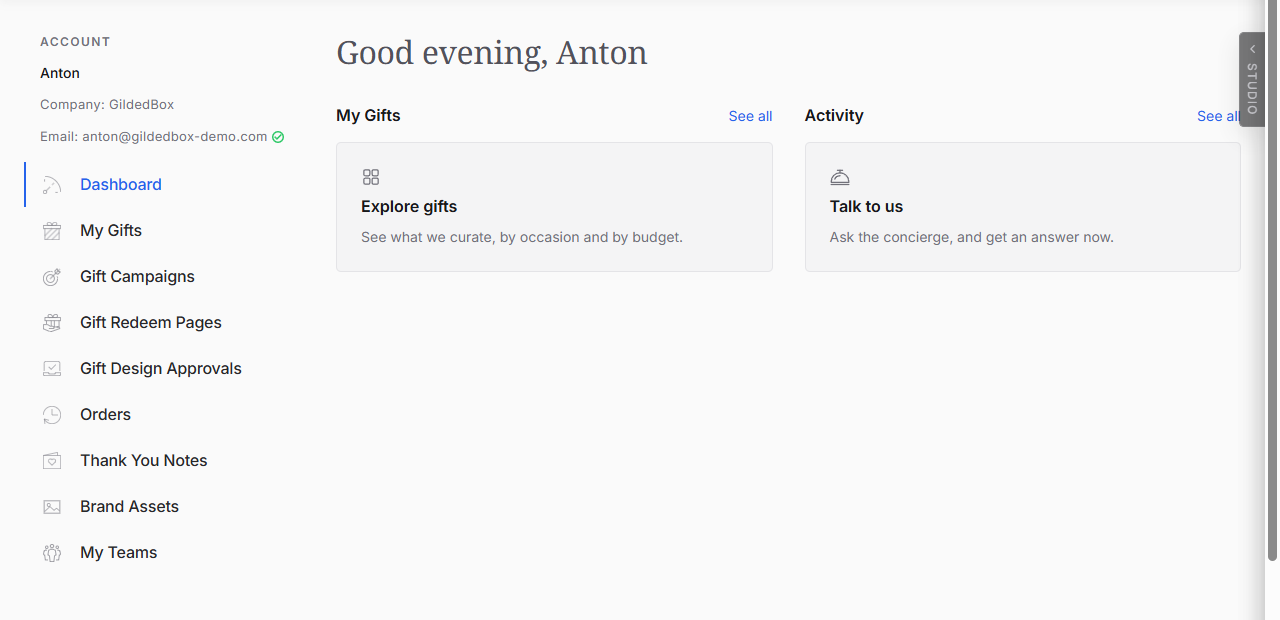
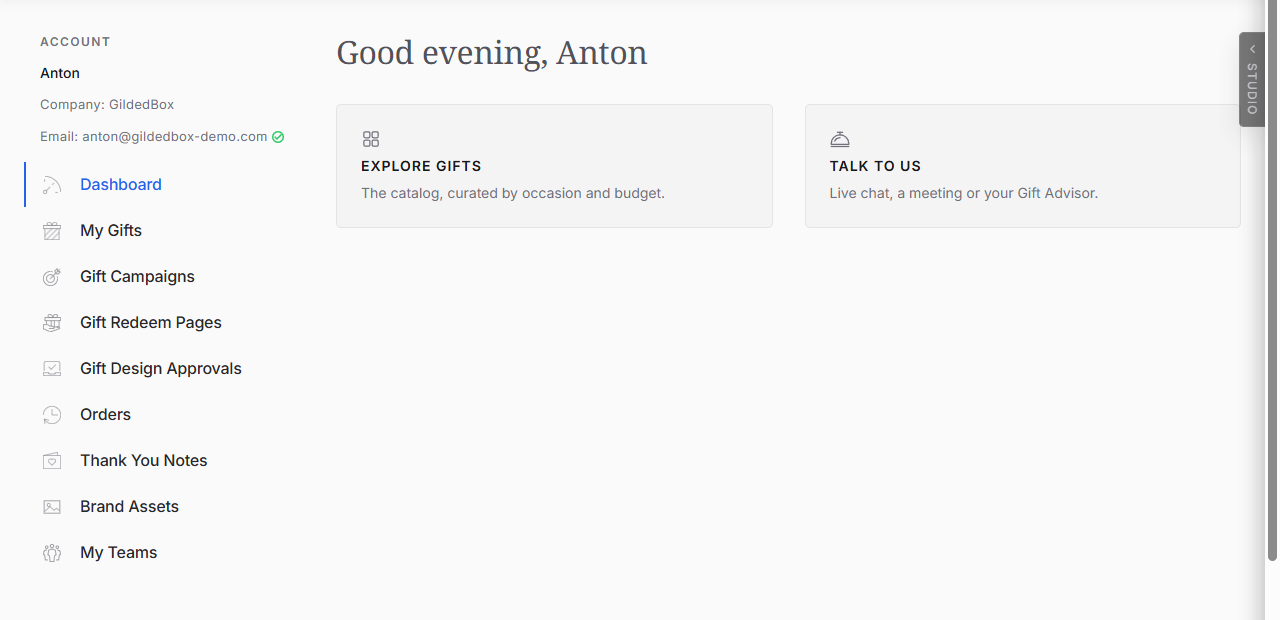
fix(portal): the doors speak in the button's caps, and an empty block is just its door
THE LABEL OF A DOOR IS A BUTTON'S LABEL. Ton's argument settles it:
everything interactive in this house already speaks in caps, menus,
tabs and buttons alike, so the doors join that family. The values
are taken by name off the ladder rather than redrawn: the medium
rung on the working board (11 / 600 / 1px, 12 at 2000) and the large
rung in an empty block, where the door IS the block.

Measured, because the two used to be the same object: the block
heading is 16/600 sentence case and the door label is 11/600
uppercase with 1px of tracking. Three signs apart, not one.

THE EMPTY BLOCK LOST ITS HEADING. Over a grown door the name of an
empty entity says the same thing twice; the greeting is the page's
only heading there now, and the board stands one section under it
(32, measured). On the filled board the headings stay, because there
they name something with states and content beneath them.

THE SUBS SAY WHAT THE THING IS: the catalog curated by occasion and
budget, one gift delivered to a whole list, live chat or a meeting
or your Gift Advisor. The middle one is the definition of a campaign
and it belongs on that door.

AND THE WORKING BOARD KEEPS ITS DOORS ONE LINE HIGH, which was mine
to judge: a caps label already reads as an action, the sense line
under it would make every compact door two storeys and put a second
grey paragraph directly above the tabs. 54px tall against the empty
block's 124, and the errand stays an errand.

diff --git a/live/portal-dashboard.html b/live/portal-dashboard.html
@@ -404,14 +404,32 @@ a.gbppd-more:hover, body.gb-demo a.gbppd-more:hover { color: var(--blue-700); te
 a.gbppd-act, body.gb-demo a.gbppd-act { color: var(--zinc-900); }
 .gbppd-act:hover { background: var(--zinc-200); border-color: var(--zinc-300); }
 .gbppd-act .gb-icon { color: var(--zinc-500); flex: 0 0 auto; }
-.gbppd-act__name { font-size: 15px; font-weight: 500; line-height: 1.4; }
+/* THE LABEL OF A DOOR IS A BUTTON'S LABEL (10.09). A door is an
+   action, and actions in this house speak in caps off the button
+   ladder: the medium rung's own label triple, taken by name rather
+   than redrawn (11 / 600 / 1px, stepping to 12 at 2000, the same
+   values .gb-btn__label reads). The large rung is for the empty
+   block, where the door is the block. */
+.gbppd-act__name {
+  font-size: var(--gb-btn-medium-label);
+  font-weight: var(--gb-btn-label-weight);
+  letter-spacing: var(--gb-btn-label-tracking);
+  line-height: var(--gb-btn-label-line-height);
+  text-transform: uppercase;
+}
+@media (min-width: 2000px) { .gbppd-act__name { font-size: var(--gb-btn-medium-label-2xl); } }
 /* The line of help is for the empty block only: a working account
    knows what «Create a campaign» means. */
 .gbppd-act__say { display: none; font-size: 14px; line-height: 1.5; color: var(--zinc-500); }
 
 /* THE EMPTY ACCOUNT: no tabs, no lists, and the door grown up. */
 html[data-gbppd-state="empty"] .gbppd-tabs,
-html[data-gbppd-state="empty"] .gbppd-panes { display: none; }
+html[data-gbppd-state="empty"] .gbppd-panes,
+/* AND THE HEADING GOES TOO (Ton, 10.09): over a grown door the name
+   of an empty entity says the same thing twice, and the door is the
+   block. On the filled board the heading stays, because there it
+   names something that actually has states and content under it. */
+html[data-gbppd-state="empty"] .gbppd-widget__head { display: none; }
 /* AND A NEW ACCOUNT HAS NO CAMPAIGNS BLOCK AT ALL (Ton, 10.09): a
    campaign is a gift plus a distribution, so there is nothing to
    invite anyone to create before they own a gift. The block does not
@@ -426,7 +444,8 @@ html[data-gbppd-state="empty"] .gbppd-act {
   margin-bottom: 0;
   padding: var(--space-24);
 }
-html[data-gbppd-state="empty"] .gbppd-act__name { font-size: 16px; font-weight: 600; }
+html[data-gbppd-state="empty"] .gbppd-act__name { font-size: var(--gb-btn-large-label); }
+@media (min-width: 2000px) { html[data-gbppd-state="empty"] .gbppd-act__name { font-size: var(--gb-btn-large-label-2xl); } }
 html[data-gbppd-state="empty"] .gbppd-act__say { display: block; }
 
 /* ============ THE OLD QUICK ACTIONS STRIP, kept for the empty
@@ -1717,7 +1736,7 @@ html[data-gbppd-state="empty"] .gbppd-filled { display: none; }
             <a class="gbppd-act" href="portal.html?nav=ton&amp;catalog=open">
                 <span data-gb-icon="grid" data-gb-icon-size="20"></span>
                 <span class="gbppd-act__name">Explore gifts</span>
-                <span class="gbppd-act__say">See what we curate, by occasion and by budget.</span>
+                <span class="gbppd-act__say">The catalog, curated by occasion and budget.</span>
               </a>
             <div class="gbppd-tabs" role="tablist" aria-label="Gifts by state">
                 <button class="gb-eyebrow gbppd-tab" type="button" role="tab" id="tab-way"  aria-selected="true"  aria-controls="pane-way"  data-gbppd-tab="way">On the way</button>
@@ -1838,7 +1857,7 @@ html[data-gbppd-state="empty"] .gbppd-filled { display: none; }
             <a class="gbppd-act" href="#">
                 <span data-gb-icon="plus" data-gb-icon-size="20"></span>
                 <span class="gbppd-act__name">Create a campaign</span>
-                <span class="gbppd-act__say">Send one gift to a list of people, on one schedule.</span>
+                <span class="gbppd-act__say">One gift, delivered to a whole list.</span>
               </a>
             <div class="gbppd-tabs" role="tablist" aria-label="Campaigns by type">
               <button class="gb-eyebrow gbppd-tab" type="button" role="tab" id="tab-camp-all"  aria-selected="true"  aria-controls="pane-camp" data-gbppd-filter="all">All</button>
@@ -1918,7 +1937,7 @@ html[data-gbppd-state="empty"] .gbppd-filled { display: none; }
             <button class="gbppd-act" type="button" data-gbppd-concierge>
                 <span data-gb-icon="service-bell" data-gb-icon-size="20"></span>
                 <span class="gbppd-act__name">Talk to us</span>
-                <span class="gbppd-act__say">Ask the concierge, and get an answer now.</span>
+                <span class="gbppd-act__say">Live chat, a meeting or your Gift Advisor.</span>
               </button>
             <div class="gbppd-tabs" role="tablist" aria-label="Activity by state">
               <button class="gb-eyebrow gbppd-tab" type="button" role="tab" id="tab-act-all"  aria-selected="true"  aria-controls="pane-act" data-gbppd-act="all">All</button>
